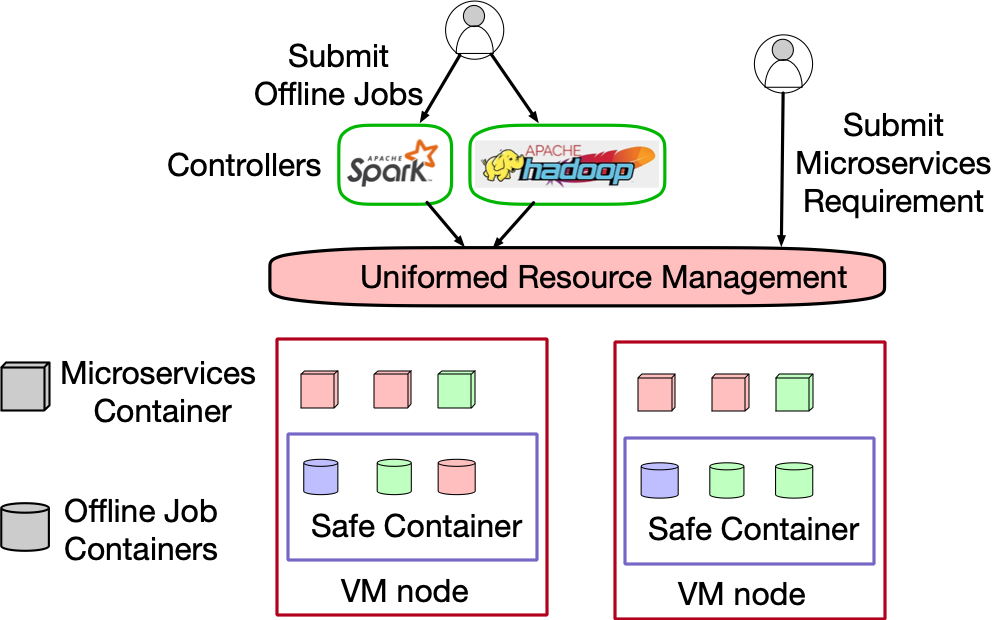
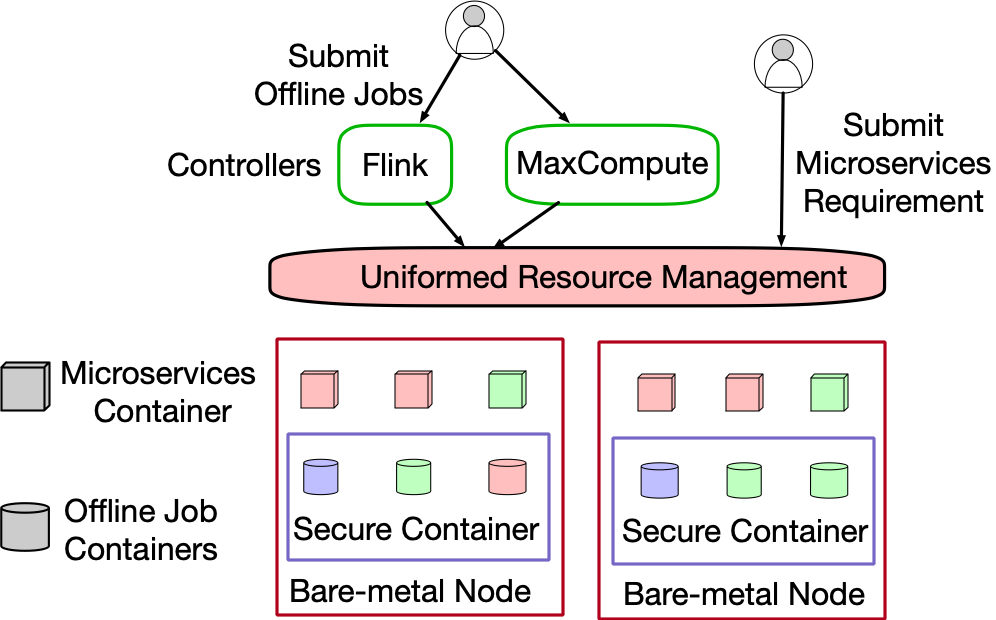
update the figure of cluster architecture, and the discussion

diff --git a/cluster-trace-microservices-v2021/README.md b/cluster-trace-microservices-v2021/README.md
@@ -1,9 +1,20 @@
 # Overview of Microservices Traces
-The released traces contain the detailed runtime metrics of nearly twenty thousand microservices. They are collected from Alibaba production clusters of over ten thousand virtual machines during twelve hours in 2021. 
+The released traces contain the detailed runtime metrics of nearly twenty thousand microservices. They are collected from Alibaba production clusters of over ten thousand [bare-metal nodes](https://dl.acm.org/doi/10.1145/3373376.3378507) during twelve hours in 2021. 
+
+We conduct a characterization analysis on the trace in a paper, [Characterizing Microservice Dependency and Performance: Alibaba Trace Analysis](http://cloud.siat.ac.cn/pdca/socc2021-AlibabaTraceAnalysis.pdf), published in SoCC’21. And we would encourage anybody who uses this trace to cite our paper.
+
+```BibTeX
+@inproceedings{alimicrotrace,
+  author = {Shutian Luo and Huanle Xu and Chengzhi Lu and Kejiang Ye and Guoyao Xu and Liping Zhang and Yu Ding and Jian He and Chengzhong Xu},
+  title = {Characterizing Microservice Dependency and Performance: Alibaba Trace Analysis},
+  booktitle = {Proceedings of SoCC},
+  year = {2021},
+} 
+```
 
 # Cluster Architecture
 
-The production cluster contains a large number of virtual machines (VM) and is running in the Alibaba cloud. Users could submit their offline jobs through different controls, which will require resources from uniformed resource management (URM), or send microservices (MS) requirements to URM directly. To improve resource efficiency, URM will place containers of offline jobs and MS on the same VM. More specifically, containers of offline jobs are scheduled into safe containers, which could be regarded as lightweight VM. This can enhance isolation and mitigate interference from offline jobs to provide performance guarantees for MS containers. 
+The production cluster contains a large number of bare-metal (BM) nodes and is running in the Alibaba cloud. Users could submit their offline jobs through different controls, which will require resources from uniformed resource management (URM), or send microservices (MS) requirements to URM directly. To improve resource efficiency, URM will place containers of offline jobs and MS on the same BM node. More specifically, containers of offline jobs are scheduled into secure containers, which could be regarded as lightweight virtual machine. This can enhance isolation and mitigate interference from offline jobs to provide performance guarantees for MS containers. 
 
 ![Clusterarchitecture](./figures/Clusterarchitecture.png)
 
@@ -20,7 +31,7 @@ Microservices can be categorized into two types, stateless services (e.g., a cir
 # Introduction of Trace Data
 The traces include four parts of data as follows:
 
-NodeTable: VM Node runtime information. It records CPU and memory utilization of 1300+ VM nodes in a production cluster. 
+NodeTable: BM Node runtime information. It records CPU and memory utilization of 1300+ BM nodes in a production cluster. 
 
 MS_Resource_Table: MS runtime information. It records CPU and memory utilization of 90000+ containers for 1300+ MSs in the same production cluster. 
  
@@ -52,9 +63,9 @@ node:
 | memory_utilization    | 0.738378997619996    |	
 	
 - timestamp: Timestamp of recorded metrics. Range from 0 to 43200000 for twelve hours (12 * 60 * 60 * 1000). The recording interval is the 30s (30 * 1000). 
-- nodeid: The specific id of VM. It could be joined with nodeid in MS_Resource_Table.
-- cpu_utilization: CPU utilization of VM node.
-- memory_utilization: Memory utilization of VM node.
+- nodeid: The specific id of BM node. It could be joined with nodeid in MS_Resource_Table.
+- cpu_utilization: CPU utilization of BM node.
+- memory_utilization: Memory utilization of BM node.
 
 MS_Metrics_Table:
 |columns      | Example Entry    |
@@ -71,7 +82,7 @@ MS_Metrics_Table:
 - timestamp: Mentioned in NodeTable. The recording interval is the 60s (60 * 1000). 
 - msname: The name of MS, to be joined with MSName in MS_MCR_RT_Table, and DM and UM in MS_CallGraph_Table. MSName only contains stateless services, as stateful services run in other dedicated clusters.
 - msinstanceid:  The specific container id of MS, to be joined with UM_instanceid and UM_instanceid in MS_CallGraph_Table. An MS may have more than one container. 
-- nodeid: The specific VM in which MSInstanceID runs. 
+- nodeid: The specific BM node in which MSInstanceID runs. 
 - cpu_utilization: CPU utilization of MSInstanceID.
 - memory_utilization: Memory utilization of MSInstanceID.
 
@@ -115,4 +126,13 @@ MS_CallGraph_Table:
 - rpctype: The communication paradigms. We record rpc_type as "DB" and "MC" for the calls via inter-process communication if DM is DB and MC respectively.
 - interface: The interface of DM is called by UM. The calls via remote invocation or HTTP have the interface.
 - DM: The name of DM.
-- rt: Response time of the call. It is measured by millisecond (ms). For call via RPC, the value of RT could be a positive integer and negative integer, which are recorded in UM and DM respectively, and represents UM RT (from UM sending a request to receiving a reply) and the opposite of DM RT (from DM receiving the request to sending the reply) respectively. The RT of a call via MQ is the interval from DM fetching the message to finishing it. For call via HTTP, the UM and DM RT is also recorded as positive integer and negative integer respectively. 
+- rt: Response time of the call. It is measured by millisecond (ms). If rt is less than 1 ms, e.g. rt of read/write MC, the value will be recorded as 0. For call via RPC, the value of RT could be a positive integer and negative integer, which are recorded in UM and DM respectively, and represents UM RT (from UM sending a request to receiving a reply) and the opposite of DM RT (from DM receiving the request to sending the reply) respectively. The RT of a call via MQ is the interval from DM fetching the message to finishing it. For call via HTTP, the UM and DM RT is also recorded as positive integer and negative integer respectively. 
+
+# Discussion
+- How to identify a specific service in the traces?
+
+In practice, microservice architecture adopts proxy modules like Nginx to forward users' requests to an entering MS. The entering MS, e.g., interface of entering MS A in Fig.2, containing multiple interfaces, and each interface provides a specific service. As such, each interface of MS called by proxy MS could be labelled as an online service.  As revealed in the paper, we classify the call graphs of each online service into different classes when analyzing the dynamics of microservices. It is worth noting that, some call graphs could even contain two proxy modules, and the name of the second proxy MS are usually recorded as '(?)' or ''. 
+
+- Missing items in traces.
+  
+In these traces, it happens that some metrics in MS_CallGraph_Table are lost. For example, the name of some MS is recorded as NAN, '(?)' or '' in the traces. As the call via RPC will be recorded twice in MS_CallGraph_Table, some metrics related to rpcID could be found from another record even if one is missing. 

diff --git a/README.md b/README.md
@@ -9,9 +9,7 @@ So far, three versions of traces have been released:
 * *cluster-trace-v2017* includes about 1300 machines in a period of 12 hours. The trace-v2017 firstly introduces the collocation of online services (aka long running applications) and batch workloads. To see more about this trace, see related documents ([trace_2017](./cluster-trace-v2017/trace_201708.md)). Download link is available after a short survey ([survey link](https://goo.gl/forms/eOoe6DwZQpd2H5n53)).
 * *cluster-trace-v2018* includes about 4000 machines in a period of 8 days. Besides having larger scaler than trace-v2017, this piece trace also contains  the DAG information of our production batch workloads. See related documents for more details ([trace_2018](./cluster-trace-v2018/trace_2018.md)). Download link is available after a survey (less than a minute, [survey link](http://alibabadeveloper.mikecrm.com/BdJtacN)).
 * *cluster-trace-gpu-v2020* includes over 6500 GPUs (on ~1800 machines)  in a period of 2 months. It describe the AI/ML workloads in the MLaaS (Machine-Learning-as-a-Service) provided by the [Alibaba PAI (Platform for Artificial Intelligence)](https://www.alibabacloud.com/product/machine-learning) on GPU clusters. See the subdirectory ([pai_gpu_trace_2020](./cluster-trace-gpu-v2020/README.md)) for the released data, schema, and scripts for processing and visualization. Our analysis paper, published in NSDI '22, is also available [here](https://home.cse.ust.hk/~weiwa/papers/weng-nsdi22.pdf).
-* *cluster-trace-microservices-v2021* contains 20000+ microservices in a period of 12 hours. It introduces the runtime metrics of microservices in the production cluster, including call dependencies, respond time, call rates, and so on. See the subdirectory ([trace_2021](./cluster-trace-microservices-v2021/README.md)) for more details. Our analysis paper, accepted by SoCC'21, will be released soon.
-
-We will release the cluster-trace-v2021 related to microservices in the following months. These traces contain the details of all complete invocation processes, including call dependencies between microservices, respond time, interfaces, and communication paradigms.
+* *cluster-trace-microservices-v2021* contains 20000+ microservices in a period of 12 hours. The traces the first released to introduce the runtime metrics of microservices in the production cluster, including call dependencies, respond time, call rates, and so on. See the subdirectory ([trace_2021](./cluster-trace-microservices-v2021/README.md)) for more details. Our analysis paper, accepted by SoCC '21, is available [here](http://cloud.siat.ac.cn/pdca/socc2021-AlibabaTraceAnalysis.pdf).
 
 We encourage anyone to use the traces for study or research purposes, and if you had any question when using the trace, please contact us via email: [alibaba-clusterdata](mailto:alibaba-clusterdata@list.alibaba-inc.com), or file an issue on Github. Filing an issue is recommanded as the discussion would help all the community. Note that the more clearly you ask the question, the more likely you would get a clear answer.
 
@@ -37,8 +35,9 @@ Last but not least, we are always open to work together with researchers to impr
 
 The fundemental idea of our releasing cluster data is to enable researchers & practitioners doing resaerch, simulation with more realistic data and thus making the result closer to industry adoption. It is a huge encouragement to us to see more works using our data. Here is a list of existing works using Alibaba cluster data. **If your paper uses our trace, it would be great if you let us know by sending us email** ([aliababa-clusterdata](mailto:alibaba-clusterdata@list.alibaba-inc.com)).
 
+
 * microservices trace v2021
-  * Characterizing Microservice Dependency and Performance: Alibaba Trace Analysis. Shutian Luo, Huanle Xu, Chengzhi Lu, Kejiang Ye, Guoyao Xu, Liping Zhang, Yu Ding, Jian He, Chengzhong Xu. SoCC'21
+  * [Characterizing Microservice Dependency and Performance: Alibaba Trace Analysis](http://cloud.siat.ac.cn/pdca/socc2021-AlibabaTraceAnalysis.pdf), Shutian Luo, Huanle Xu, Chengzhi Lu, Kejiang Ye, Guoyao Xu, Liping Zhang, Yu Ding, Jian He, Chengzhong Xu. SoCC'21
 * cluster trace GPU v2020
   * [MLaaS in the Wild: Workload Analysis and Scheduling in Large-Scale Heterogeneous GPU Clusters](https://home.cse.ust.hk/~weiwa/papers/weng-nsdi22.pdf), by Qizhen Weng, Wencong Xiao, Yinghao Yu, Wei Wang, Cheng Wang, Jian He, Yong Li, Liping Zhang, Wei Lin, and Yu Ding, to appear in the 19th USENIX Symposium on Networked Systems Design and Implementation (NSDI ’22), Renton, WA, April 2022.
 * cluster trace v2018
